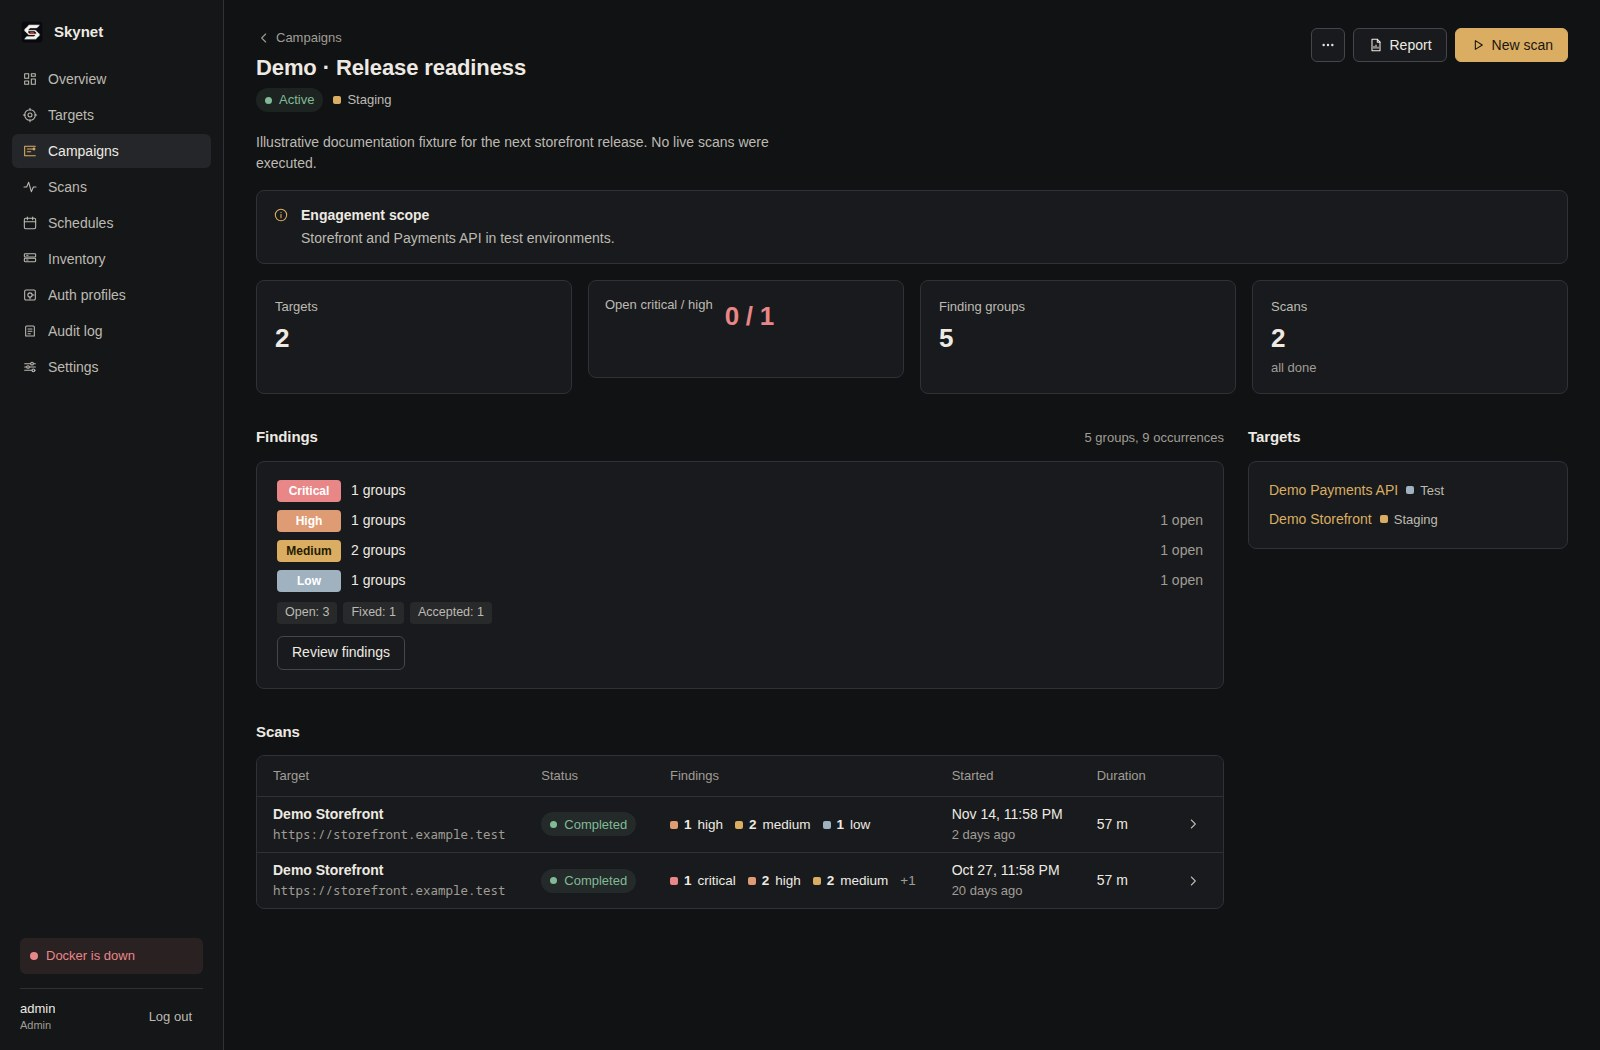
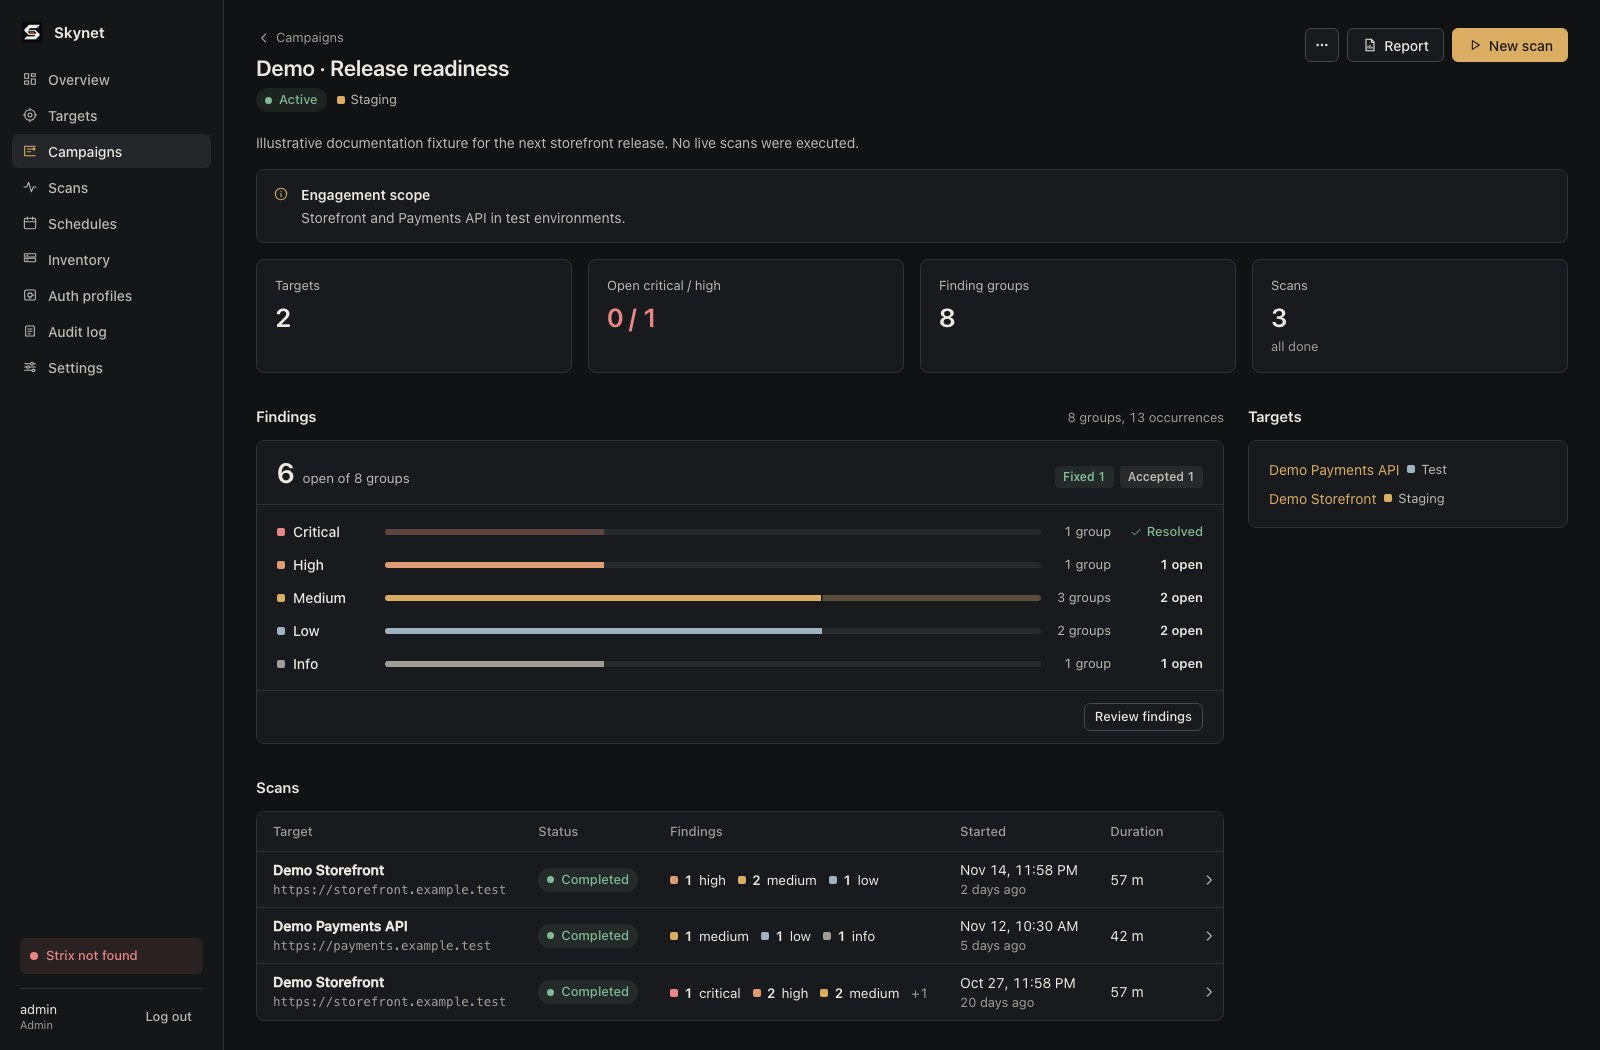
Redesign finding groups card and fix stacked stat card
- Finding groups card (target and campaign): open-count header, status
  chips, per-severity distribution bars (bright = open, dim = resolved),
  aligned columns and a "Resolved" state instead of an empty cell.
- Fix "1 groups" / "1 scans" plurals.
- "Open critical / high" stat used the .alert component class and was
  laid out as a row; renamed the modifier to .is-alert.
- Re-capture target-details.jpg and campaign.jpg from the synthetic demo.

diff --git a/skynet/static/app.js b/skynet/static/app.js
@@ -424,7 +424,7 @@ async function viewOverview() {
       h("div", { class: "stats" },
         h("div", { class: "stat" }, h("div", { class: "k" }, "Active scans"), h("div", { class: "v" }, running.length), h("div", { class: "s" }, `Concurrency limit ${o.max_concurrent}`)),
         h("div", { class: "stat" }, h("div", { class: "k" }, "Queued"), h("div", { class: "v" }, queued.length), h("div", { class: "s" }, queued.length ? "Waiting in line" : "Queue empty")),
-        h("div", { class: "stat" + (crit ? " alert" : "") }, h("div", { class: "k" }, "Open critical / high findings"),
+        h("div", { class: "stat" + (crit ? " is-alert" : "") }, h("div", { class: "k" }, "Open critical / high findings"),
           h("div", { class: "v" }, withScan.length ? `${crit} / ${high}` : "—"),
           h("div", { class: "s", title: "Based on each target's last completed scan" }, withScan.length ? "Based on targets' latest scans" : "No completed scans yet")),
         h("div", { class: "stat" }, h("div", { class: "k" }, "Next scan"),
@@ -572,7 +572,7 @@ async function viewTarget(id) {
     t.active_scan ? alertBox("info", "This target has an active scan", ["Scan ", h("a", { href: `#/scans/${t.active_scan.id}` }, `#${t.active_scan.id}`), ` is ${STATUS_TR[t.active_scan.status].toLowerCase()}. Back-to-back scans on the same target aren't allowed.`]) : null,
     h("div", { class: "grid-main-side" },
       h("div", {},
-        findings.summary && findings.summary.unique ? section("Finding groups", findingsCard(findings.summary, id), { hint: `${findings.summary.unique} groups` }) : null,
+        findings.summary && findings.summary.unique ? section("Finding groups", findingsCard(findings.summary, id), { hint: plural(findings.summary.unique, "group") }) : null,
         section("Scan history", h("div", { class: "table-card" }, scanTable(scans, { showTarget: false, empty: emptyState("This target hasn't been scanned yet", "Start the first scan to see its security posture.", [button("Scan now", { kind: "primary", ic: "play", onclick: () => scanDialog(t) })]) })), { hint: scans.length ? `${scans.length} records` : null }),
         section("Schedules", h("div", { class: "table-card" }, scheduleTable(schedules, { showTarget: false, empty: emptyState("No schedules", "Plan recurring scans for this target.", [button("Add schedule", { onclick: () => go(`#/schedules/new?target=${id}`) })]) })))),
       h("div", {},
@@ -1547,13 +1547,13 @@ async function viewCampaign(id) {
     c.scope ? alertBox("info", "Engagement scope", c.scope) : null,
     h("div", { class: "stats" },
       h("div", { class: "stat" }, h("div", { class: "k" }, "Targets"), h("div", { class: "v" }, c.target_ids.length)),
-      h("div", { class: "stat" + (fs.open_counts && (fs.open_counts.critical || fs.open_counts.high) ? " alert" : "") }, h("div", { class: "k" }, "Open critical / high"),
+      h("div", { class: "stat" + (fs.open_counts && (fs.open_counts.critical || fs.open_counts.high) ? " is-alert" : "") }, h("div", { class: "k" }, "Open critical / high"),
         h("div", { class: "v" }, fs.open_counts ? `${fs.open_counts.critical || 0} / ${fs.open_counts.high || 0}` : "—")),
       h("div", { class: "stat" }, h("div", { class: "k" }, "Finding groups"), h("div", { class: "v" }, fs.unique ?? "—"), fs.seen_after_fix ? h("div", { class: "s alert-text" }, `${fs.seen_after_fix} seen after remediation`) : null),
       h("div", { class: "stat" }, h("div", { class: "k" }, "Scans"), h("div", { class: "v" }, c.scan_count), h("div", { class: "s" }, c.active_scans ? `${c.active_scans} active` : "all done"))),
     h("div", { class: "grid-main-side" },
       h("div", {},
-        section("Findings", findingsCard(fs, scans.map((s) => s.id), id), { hint: fs.unique ? `${fs.unique} groups, ${fs.occurrences} occurrences` : null }),
+        section("Findings", findingsCard(fs, scans.map((s) => s.id), id), { hint: fs.unique ? `${plural(fs.unique, "group")}, ${plural(fs.occurrences, "occurrence")}` : null }),
         section("Scans", h("div", { class: "table-card" }, scanTable(scans, { empty: emptyState("No scans in this campaign", "Start a scan linked to the campaign.") }))),
         c.schedules && c.schedules.length ? section("Schedules", h("div", { class: "table-card" }, scheduleTable(c.schedules))) : null),
       h("div", {},
@@ -1565,12 +1565,35 @@ async function viewCampaign(id) {
 function findingsCard(fs, scanIds, campaignId) {
   if (!fs || !fs.unique) return h("div", { class: "card" }, emptyState("No findings", "No finding groups in this scope. They are collected as scans complete."));
   const openSev = fs.open_counts || {};
-  return h("div", { class: "card card-pad" },
-    h("div", { class: "sev-bars" }, SEV.map((s) => fs.counts[s] ? h("div", { class: "sev-bar" },
-      h("span", { class: `sevpill ${s}` }, SEV_TR[s]), h("span", {}, `${fs.counts[s]} groups`), openSev[s] ? h("span", { class: "faint" }, `${openSev[s]} open`) : null) : null)),
-    h("div", { class: "rem-row" }, Object.entries(fs.remediation || {}).map(([k, n]) => n ? h("span", { class: "tag" }, `${REMEDIATION_TR[k]}: ${n}`) : null)),
-    h("div", { class: "actions mt" }, button("Review findings", { onclick: () => findingsDialog(scanIds, campaignId) })));
+  const rem = fs.remediation || {};
+  const open = rem.open || 0;
+  const closed = Object.entries(rem).filter(([k, n]) => k !== "open" && n);
+  const max = Math.max(...SEV.map((s) => fs.counts[s] || 0));
+  // Widths go through CSSOM: the CSP (style-src 'self') blocks inline style attributes.
+  const sized = (el, prop, value) => { el.style[prop] = value; return el; };
+  const rows = SEV.map((s) => {
+    const total = fs.counts[s] || 0;
+    if (!total) return null;
+    const o = openSev[s] || 0;
+    const bar = sized(h("div", { class: `fc-bar ${s}` },
+      o ? sized(h("span", { class: "fc-open" }), "flex", String(o)) : null,
+      total - o ? sized(h("span", { class: "fc-closed" }), "flex", String(total - o)) : null), "width", `${(total / max) * 100}%`);
+    return h("div", { class: "fc-row" },
+      h("span", { class: "fc-sev" }, h("span", { class: `sq ${s}` }), SEV_TR[s]),
+      h("div", { class: "fc-track", title: `${o} of ${plural(total, "group")} open` }, bar),
+      h("span", { class: "fc-groups" }, plural(total, "group")),
+      o ? h("span", { class: "fc-state" }, `${o} open`) : h("span", { class: "fc-state done" }, icon("check"), "Resolved"));
+  });
+  return h("div", { class: "card fcard" },
+    h("div", { class: "fc-head" },
+      h("div", { class: "fc-total" },
+        h("span", { class: `fc-num${open ? "" : " done"}` }, String(open)),
+        h("span", { class: "fc-lbl" }, open ? `open of ${plural(fs.unique, "group")}` : "open · all resolved")),
+      closed.length ? h("div", { class: "fc-rem" }, closed.map(([k, n]) => h("span", { class: `rem ${k}` }, `${REMEDIATION_TR[k]} ${n}`))) : null),
+    h("div", { class: "fc-rows" }, rows),
+    h("div", { class: "fc-foot" }, button("Review findings", { size: "sm", onclick: () => findingsDialog(scanIds, campaignId) })));
 }
+function plural(n, one, many = `${one}s`) { return `${n} ${n === 1 ? one : many}`; }
 
 async function viewCampaignForm(id) {
   const [c, targets] = await Promise.all([id ? api(`/api/campaigns/${id}`) : null, api("/api/targets")]);
@@ -1667,7 +1690,7 @@ async function findingsDialog(scanIds, campaignId) {
         h("td", { class: "shrink" }, h("span", { class: `sevpill ${g.severity}` }, SEV_TR[g.severity] || g.severity)),
         h("td", {}, h("div", { class: "cell-clip" }, h("div", { class: "primary-line", title: g.title }, g.title), h("div", { class: "secondary-line mono" }, [g.method, g.endpoint].filter(Boolean).join(" ") || g.host || ""))),
         h("td", { class: "nowrap" }, h("span", { class: `rem ${g.remediation}` }, REMEDIATION_TR[g.remediation]), g.seen_after_fix ? h("span", { class: "tag danger", title: "Seen again after being marked fixed" }, "again") : null),
-        h("td", { class: "nowrap muted" }, `${g.runs} scans`),
+        h("td", { class: "nowrap muted" }, plural(g.runs, "scan")),
         h("td", { class: "shrink" }, icon("chevron")), detail));
       tbody.append(detail);
     });

diff --git a/skynet/static/style.css b/skynet/static/style.css
@@ -80,7 +80,7 @@ svg.i { width: 16px; height: 16px; flex-shrink: 0; stroke: currentColor; fill: n
 .stat .v { font-size: 26px; font-weight: 600; margin-top: 6px; line-height: 1.2; letter-spacing: -.01em; }
 .stat .v.sm { font-size: 17px; margin-top: 8px; }
 .stat .s { color: var(--text-3); font-size: 13px; margin-top: 4px; overflow: hidden; text-overflow: ellipsis; white-space: nowrap; }
-.stat.alert .v { color: var(--danger); }
+.stat.is-alert .v { color: var(--danger); }
 
 /* ================= buttons ================= */
 .btn { display: inline-flex; align-items: center; justify-content: center; gap: 6px; height: 34px; padding: 0 14px; border-radius: var(--r); border: 1px solid var(--border-strong); background: var(--surface); color: var(--text); font: inherit; font-weight: 500; cursor: pointer; white-space: nowrap; text-decoration: none; }
@@ -359,14 +359,35 @@ dl.dl.stacked dt:first-child { margin-top: 0; }
 .rem.fixed { background: var(--ok-soft); color: var(--ok); }
 .rem.accepted { background: var(--neutral-soft); color: var(--text-2); }
 .rem.false_positive { background: var(--neutral-soft); color: var(--text-3); }
-.rem-row { display: flex; flex-wrap: wrap; gap: 6px; margin-top: 10px; }
 .rem-edit { display: flex; gap: 8px; align-items: center; flex-wrap: wrap; margin: 10px 0; }
 .rem-edit select, .rem-edit input { width: auto; min-width: 150px; }
 
 /* findings severity bars (summary card) */
-.sev-bars { display: flex; flex-direction: column; gap: 8px; }
-.sev-bar { display: flex; align-items: center; gap: 10px; font-size: 14px; }
-.sev-bar .faint { margin-left: auto; }
+/* Finding groups summary card: open total, per-severity distribution bars (bright = open, dim = resolved). */
+.fcard { padding: 0; }
+.fc-head { display: flex; align-items: flex-end; justify-content: space-between; gap: 12px 16px; flex-wrap: wrap; padding: 18px 20px 16px; border-bottom: 1px solid var(--border); }
+.fc-total { display: flex; align-items: baseline; gap: 8px; }
+.fc-num { font-size: 28px; font-weight: 600; line-height: 1; letter-spacing: -.02em; }
+.fc-num.done { color: var(--ok); }
+.fc-lbl { color: var(--text-2); font-size: 13.5px; }
+.fc-rem { display: flex; flex-wrap: wrap; gap: 6px; }
+.fc-rows { display: grid; grid-template-columns: 92px minmax(60px, 1fr) auto auto; align-items: center; gap: 12px 16px; padding: 16px 20px; }
+.fc-row { display: contents; }
+.fc-sev { display: inline-flex; align-items: center; gap: 8px; color: var(--text); font-weight: 500; }
+.fc-sev .sq { width: 8px; height: 8px; border-radius: 2px; }
+.fc-track { height: 6px; border-radius: 3px; background: var(--neutral-soft); overflow: hidden; }
+.fc-bar { display: flex; height: 100%; min-width: 6px; gap: 2px; }
+.fc-bar > span { min-width: 3px; height: 100%; }
+.fc-bar.critical > span { background: var(--sev-critical); } .fc-bar.high > span { background: var(--sev-high); }
+.fc-bar.medium > span { background: var(--sev-medium); } .fc-bar.low > span { background: var(--sev-low); }
+.fc-bar.info > span { background: var(--sev-info); }
+.fc-bar > .fc-closed { opacity: .28; }
+.fc-groups { color: var(--text-2); font-size: 13px; text-align: right; white-space: nowrap; }
+.fc-state { display: inline-flex; align-items: center; justify-content: flex-end; gap: 4px; min-width: 76px; font-size: 13px; font-weight: 600; white-space: nowrap; }
+.fc-state.done { color: var(--ok); font-weight: 500; }
+.fc-state.done svg.i { width: 14px; height: 14px; }
+.fc-foot { display: flex; justify-content: flex-end; padding: 12px 20px; border-top: 1px solid var(--border); }
+@media (max-width: 520px) { .fc-rows { grid-template-columns: 80px minmax(40px, 1fr) auto; } .fc-groups { display: none; } }
 
 /* occurrence / observation lists */
 .occ-list { display: flex; flex-direction: column; gap: 8px; max-height: 320px; overflow: auto; }

diff --git a/PROGRESS.md b/PROGRESS.md
@@ -1,6 +1,22 @@
 # Skynet — çalışma takibi
 
-Güncelleme: 17 Kasım 2026 · Europe/Istanbul (son çalışma: README ekran görüntüleri ve kullanım rehberi)
+Güncelleme: 17 Kasım 2026 · Europe/Istanbul (son çalışma: bulgu kartı yeniden tasarımı, SIEM/Syslog main'e alındı)
+
+## Bulgu kartı ve SIEM/Syslog entegrasyonu — Claude, 17 Kasım 2026
+
+- [x] `origin/main` çekildi (PR #8 RHEL düzeltmeleri, PR #9 README görüntüleri); yereldeki SIEM/Syslog çalışması
+  korunarak üstüne alındı. PROGRESS çakışması iki tarafın bölümleri tutularak çözüldü.
+- [x] SIEM/Syslog çalışması (aşağıdaki iki Codex bölümü) ayrı commit olarak main'e alındı.
+- [x] Hedef/kampanya “Finding groups” kartı yeniden tasarlandı: açık sayı başlığı, durum etiketleri, önem başına
+  dağılım çubuğu (parlak = açık, soluk = çözülmüş), hizalı sütunlar, açığı olmayan satırda “Resolved”.
+  “1 groups / 1 scans” tekil-çoğul hataları düzeltildi.
+- [x] “Open critical / high” istatistik kutusu, `alert` bileşen sınıfıyla çakıştığı için yatay diziliyordu;
+  sınıf `is-alert` olarak ayrıldı (genel bakış ve kampanya).
+- [x] Ayrı veri klasörü/anahtar/portta (8790) sentetik demo ile karışık, false positive ve tamamı çözülmüş
+  durumlar; 1600 × 1050 ve 768 genişlikte taşma/konsol hatası yok. Asıl veritabanı değiştirilmedi.
+- [x] `target-details.jpg` ve `campaign.jpg` yeniden alındı ([notlar](docs/screenshots/README.md)).
+- [x] macOS'ta **214/214 test OK**.
+- Telefon genişliğinde (375 px) tüm uygulama sabit kenar çubuğu nedeniyle sıkışıyor; bu karttan bağımsız, ayrı iş.
 
 ## README ekran görüntüleri — Codex, 17 Kasım 2026
 
@@ -27,6 +43,41 @@ Güncelleme: 17 Kasım 2026 · Europe/Istanbul (son çalışma: README ekran gö
 - [x] Önce/sonra kanıtları ve tekrar komutları: [QA raporu](docs/qa/2026-11-16-rhel-codex/README.md).
 - Gerçek RHEL host boot/systemd, SELinux enforcing, firewalld ve Docker sandbox pentesti yapılmadı.
   Host verileri/anahtarları paylaşılmadı; LLM veya dış hedef taraması başlatılmadı.
+
+## Syslog tekrar QA — Codex, 16 Kasım 2026
+
+[Tekrar üretimler, testler ve ekranlar](docs/qa/2026-11-16-syslog-repeat/README.md).
+
+- [x] Dört kusur kapatıldı: yeni başarılı olayın gizlediği pending hata, JSON'a benzeyen audit özetinin
+  türünün değişmesi/audit API sorunu, yavaş gönderimin retry aralığını tüketmesi ve form hatasında takılı kalan test durumu.
+- [x] Probe sonucu test edilen endpoint'i gösteriyor; form değişince eski sonuç temizleniyor.
+- [x] Altı yeni regresyonla **212/212 test OK**; UBI 9 x86_64'te **21/21 syslog testi OK**.
+  Tam test çıktısındaki SQLite ResourceWarning'ler raporda ayrıca kayıtlı.
+- [x] Ayrı süreç kapanıp açıldıktan sonra pending olay gerçek localhost TCP alıcısına aynı event_id ile ulaştı.
+- [x] 1366×768 / 1920×1080: validation/probe/TLS hata/Viewer ekranları incelendi; yatay taşma ve konsol hatası yok.
+- [x] Gerçek yerel servis, aktif tarama ve etkin zamanlama olmadığı doğrulanarak güncel kodla yeniden açıldı.
+  Schema 8, mevcut anahtar/oturum korundu; syslog kapalı/collector boş. Yeni pentest veya migration yok.
+- [ ] Kurum SIEM'i ingestion ve gerçek RHEL host kabulü hâlâ ayrı; collector/host bilgisi verilmedi.
+
+Geçici QA sunucusu/verileri temizlendi; gerçek uygulama sağdaki tarayıcıda açık. Bu değişiklikler commit/push edilmedi.
+
+## SIEM / Syslog — Codex, 16 Kasım 2026
+
+[Kurulum ve teslim anlamı](docs/SYSLOG.md), [test/görsel QA kanıtları](docs/qa/2026-11-16-syslog/README.md).
+
+- [x] Admin Settings → SIEM / Syslog: RFC 5424 + JSON, UDP/TCP/TLS, optional mTLS, facility/source/CA/hostname alanları.
+- [x] Merkezi audit kaynağı; aynı SQLite transaction'ında outbox. Request handler network gönderimi yapmıyor.
+- [x] Kalıcı retry, sabit event_id, 10.000 pending sınırı/overflow görünürlüğü; yeni hedefe eski kuyruk taşınmıyor.
+- [x] Göndermeden önce güncel/tarihsel maskeleme; okunamayan bağlamda gönderim yok. TLS doğrulaması zorunlu.
+- [x] Test probe, pending/handoff/hata sayaçları; handoff SIEM ingestion onayı olarak sunulmuyor.
+- [x] İlk uygulama aşamasında 15 yeni testle macOS'ta **206/206 OK**; UBI 9 x86_64'te syslog **15/15 OK**.
+- [x] 1366×768 / 1920×1080 form, TLS, UDP probe/handoff, TCP retry ve Viewer görsel QA. Taşma/konsol hatası yok.
+- [x] Çalışan yerel uygulama, boş kuyruk/zamanlama kontrolünden sonra migration 8 ile güncellendi; önce tutarlı
+  yedek alındığı doğrulandı. Mevcut anahtar ve kullanıcı oturumu korundu; yeni pentest başlatılmadı.
+- [ ] Gerçek kurum SIEM'i parser/indexer alımı ve RHEL host egress/SELinux kabulü; collector bilgisi verilmedi.
+
+Yerel gerçek uygulamada forwarding **kapalı**, collector boş. QA yalnız kendi sentetik verisi ve localhost
+UDP/TCP/TLS alıcılarını kullandı. Yeni kod bu turda commit/push edilmedi; önceki main entegrasyonu aşağıda kayıtlı.
 
 ## Main entegrasyonu — Codex, 16 Kasım 2026
 

diff --git a/docs/screenshots/README.md b/docs/screenshots/README.md
@@ -20,6 +20,12 @@ Uygulama, host veri/anahtarı ve Docker soketi paylaşılmayan geçici UBI 9 kon
 verileridir.** İşçi ve zamanlayıcı başlatılmadı; hedefe veya LLM sağlayıcısına istek yapılmadı.
 Ekrandaki `Docker is down` durumu, bu ortamda Docker soketi paylaşılmamasından kaynaklanır.
 
+**Güncelleme (17 Kasım 2026, gece):** `target-details.jpg` ve `campaign.jpg`, yeniden tasarlanan bulgu grupları
+kartı ve düzeltilen “Open critical / high” kutusu için yeniden alındı. Aynı sentetik demo verisi macOS'ta ayrı bir
+veri klasörü/anahtarla yeniden kuruldu; görüntüler headless Chromium (Playwright) ile 1600 × 1050'de alındı.
+Bu iki görüntüde kenar çubuğundaki `Strix not found` durumu, demo örneğinin bilerek gerçek tarama başlatamayacak
+şekilde ayarlanmasından kaynaklanır. Kampanyaya ayrıca sentetik Payments API taraması eklendi.
+
 1600 × 1050 ve 1366 × 768 genişliklerinde yatay sayfa taşması kontrol edildi. Görüntüler tek tek incelendi;
 JavaScript hatası görülmedi ve demo parola/sır değerleri sayfa içeriğinde bulunmadı.
 Makine tarafından okunabilir kayıt: [capture-checks.json](capture-checks.json).
